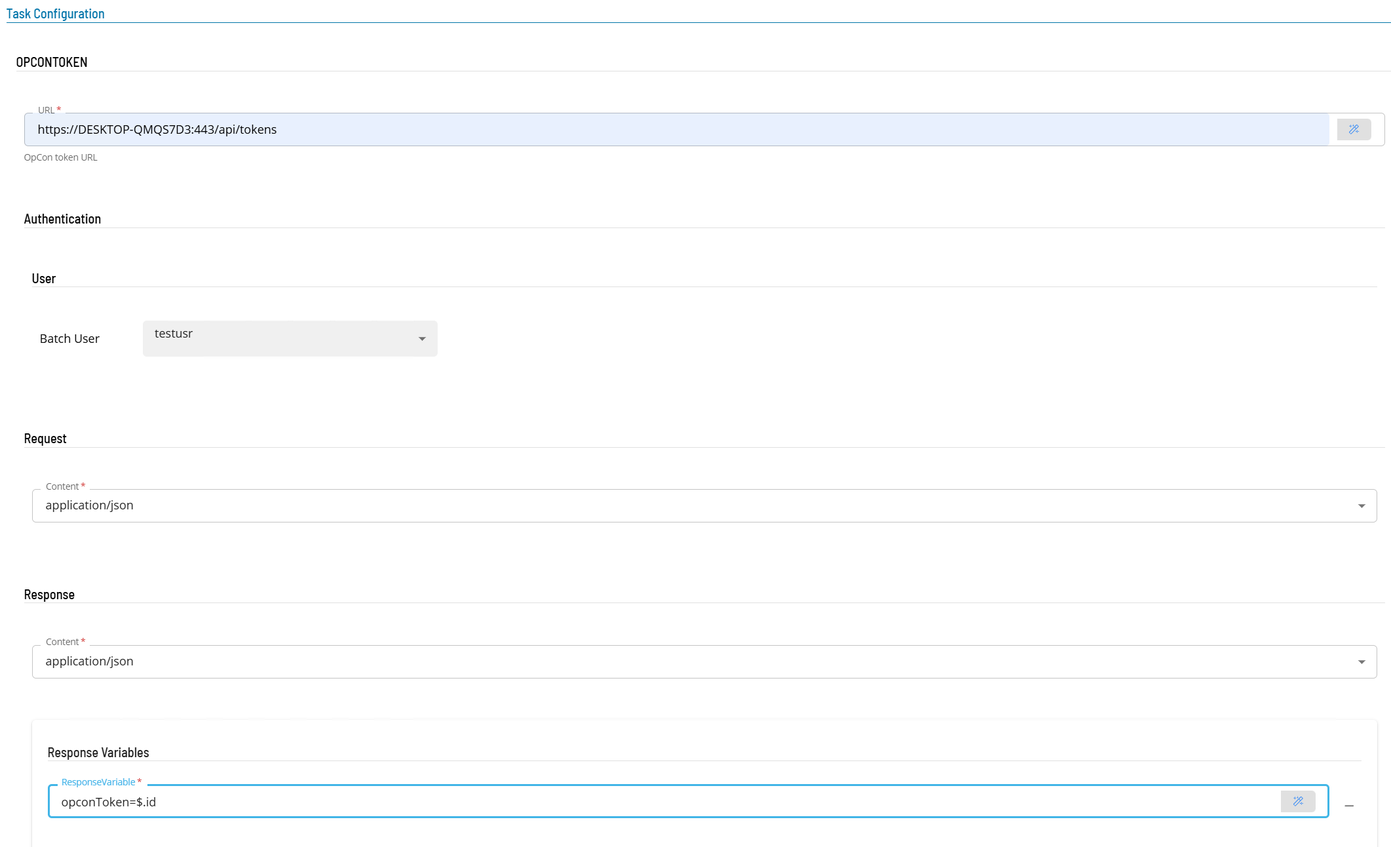
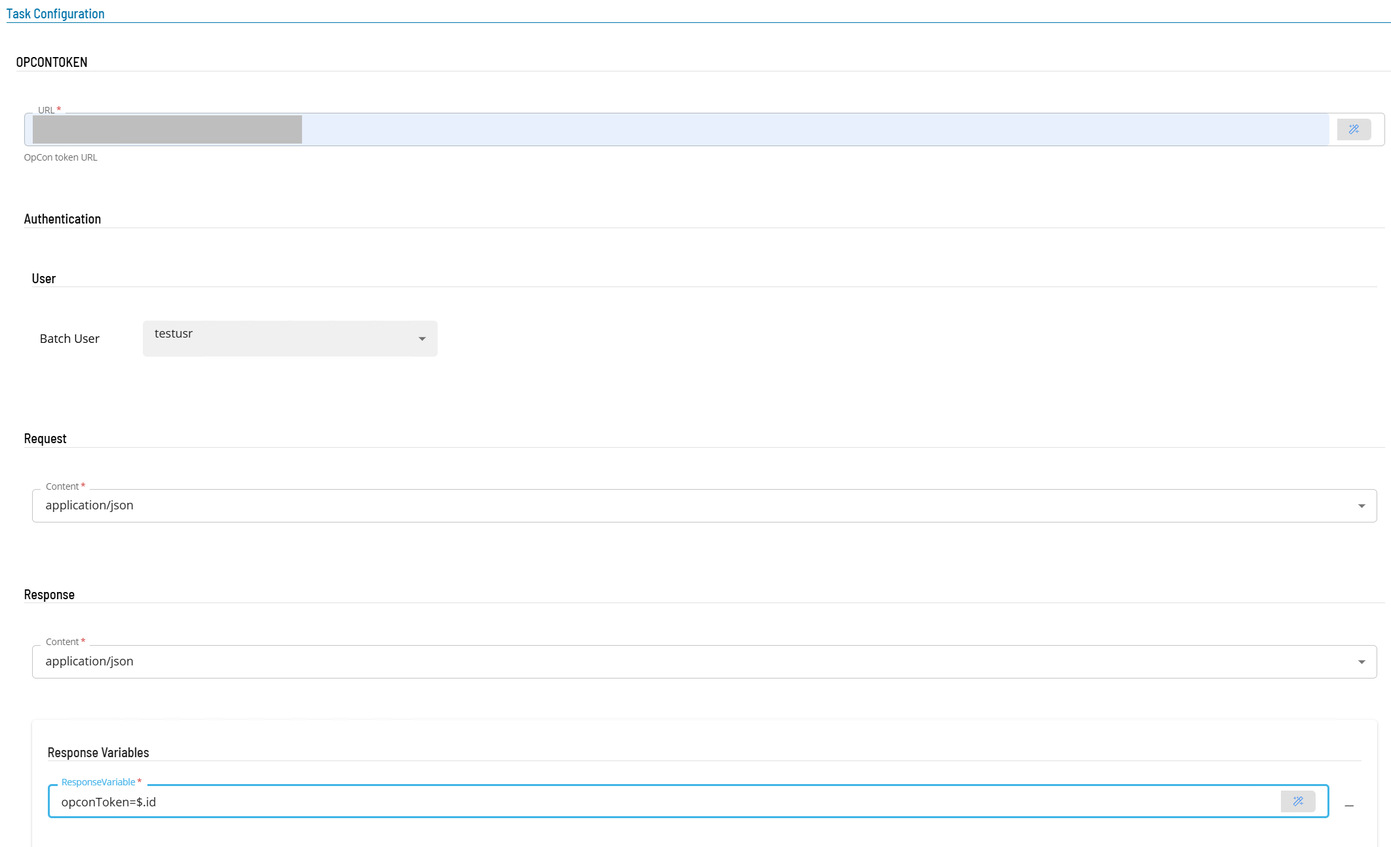
docs: Blob Storage token, screenshots, OAUTH2TOKEN fields and install steps
- AzureWebservices: Blob Storage jobs use GetOAuth2V2Token in the
  dependency note, FAQ and GetOAuth2Token section; Data Factory URL
  value; screen labels; present tense
- Screenshots: environment-specific values covered in 14 images
- Webservices: OAUTH2TOKEN Key label, resource example, content type
  and URL step; Retain Log Files on the agent; GET completion Filename
- Installation: plugins paths, directory choice, service name, and a
  check step for install and upgrade
- Overview: GetOAuth2V2Token, latest version 25.0.4, product names
- Release notes: 25.0.4 moved into the AzureWebservices section,
  unchanged
- Landing page front matter (link menu unchanged)

Changed region(s): [[0.0, 0.1238, 0.2176, 0.1858]]

diff --git a/docs/ACSAzureWebservicesOperation.md b/docs/ACSAzureWebservicesOperation.md
@@ -65,7 +65,7 @@ The ACS AzureWebservices connection supports the following job types:
 | DownloadBlobStorage | Download a file from Azure Blob Storage |
 | UploadBlobStorage | Upload a file to Azure Blob Storage |
 
-**Authentication dependencies:** Define a GetPatToken job before RunDevOpsPipeline. Define a GetOAuth2Token job before GetKeyVaultValue, RunDataFactoryPipeline, DownloadBlobStorage, or UploadBlobStorage. Set job dependencies so the authentication job runs first. The generated tokens are stored as schedule instance properties or OpCon properties and passed automatically to subsequent jobs.
+**Authentication dependencies:** Define a GetPatToken job before RunDevOpsPipeline. Define a GetOAuth2Token job before GetKeyVaultValue or RunDataFactoryPipeline, and a GetOAuth2V2Token job before DownloadBlobStorage or UploadBlobStorage. Set job dependencies so the authentication job runs first. The generated tokens are stored as schedule instance properties or OpCon properties and passed automatically to subsequent jobs.
 
 ### Prerequisite steps for all job definitions
 
@@ -89,7 +89,7 @@ Continue with the job-type-specific steps in the section below.
 
 ### GetOAuth2Token job
 
-The GetOAuth2Token job retrieves an OAuth2 token and stores it as a schedule instance property or OpCon property for use by subsequent jobs that interact with Azure Data Factory, Key Vault, or Blob Storage.
+The GetOAuth2Token job retrieves an OAuth2 token and stores it as a schedule instance property or OpCon property for use by subsequent jobs that interact with Azure Data Factory or Key Vault. For Blob Storage, use the [GetOAuth2V2Token job](#getoauth2v2token-job).
 
 ![Defining a GetOAuth2Token Master Job](../static/img/azure-ws-getaoauth2token-master-job1.png)
 
@@ -98,11 +98,11 @@ After completing the [prerequisite steps](#prerequisite-steps-for-all-job-defini
 1. In the **Integration** section, confirm required fields (shown in red).
 2. In the **Authentication** section:
    - In the **Url** field, enter the token endpoint URL including the tenant ID (for example, `tenant-id/oauth2/token`).
-   - In the **Clientid** field, enter the client ID from the Azure Application registration.
+   - In the **ClientId** field, enter the client ID from the Azure Application registration.
    - In the **Key** field, enter the key from the Azure Application registration.
-   - In the **Resource** field, enter the storage resource (for example, `https://storage-account.blob.core.windows.net`).
+   - In the **Resource** field, enter the resource (for example, `https://vault.azure.net` for Key Vault).
    - Select **client_credentials** from the **Grant Type** list.
-   - In the **OpCon Property** field, enter the property name where the token will be stored. You can use instance properties if the full path is provided.
+   - In the **OpCon Property Name** field, enter the property name where the token is stored. You can use instance properties if the full path is provided.
 3. In the **Request** section, select **application/x-www-form-urlencoded** from the **Content** list.
 
    ![Defining a GetOAuth2Token Master Job](../static/img/azure-ws-getaoauth2token-master-job2.png)
@@ -125,11 +125,11 @@ After completing the [prerequisite steps](#prerequisite-steps-for-all-job-defini
 1. In the **Integration** section, confirm required fields (shown in red).
 2. In the **Authentication** section:
    - In the **Url** field, enter the token endpoint URL including the tenant ID (for example, `tenant-id/oauth2/v2.0/token`).
-   - In the **Clientid** field, enter the client ID from the Azure Application registration.
+   - In the **ClientId** field, enter the client ID from the Azure Application registration.
    - In the **Key** field, enter the key from the Azure Application registration.
    - In the **Scope** field, enter the storage resource (for example, `https://storage.azure.com/.default`).
    - Select **client_credentials** from the **Grant Type** list.
-   - In the **OpCon Property** field, enter the property name where the token will be stored. You can use instance properties if the full path is provided.
+   - In the **OpCon Property Name** field, enter the property name where the token is stored. You can use instance properties if the full path is provided.
 3. In the **Request** section, select **application/x-www-form-urlencoded** from the **Content** list.
 
    ![Defining a GetOAuth2V2Token Master Job](../static/img/azure-ws-getaoauth2token-master-job2.png)
@@ -152,7 +152,7 @@ After completing the [prerequisite steps](#prerequisite-steps-for-all-job-defini
 1. In the **Integration Selection** section, select the ACS AzureWebservices connection.
 2. In the **Authentication** section:
    - Enter the PAT retrieved from Azure DevOps. For instructions on creating a PAT, see the [Microsoft documentation](https://learn.microsoft.com/en-us/azure/devops/organizations/accounts/use-personal-access-tokens-to-authenticate?view=azure-devops&tabs=Windows).
-   - In the **OpCon Property** field, enter the property name where the token will be stored. You can use instance properties if the full path is provided.
+   - In the **OpCon Property Name** field, enter the property name where the token is stored. You can use instance properties if the full path is provided.
 3. (Optional) If not using OpCon properties, in the **Response Variable** section, enter the variable in the format `name=value` where `name` is the schedule instance property name.
 4. Select **Save**. The GetPatToken job is added to the schedule.
 
@@ -177,7 +177,7 @@ After completing the [prerequisite steps](#prerequisite-steps-for-all-job-defini
    - If the type is **key** or **certificate**, select the attribute to return from the **Attribute** field:
      - Key attributes: `Key.kid`, `Key.kty`, `Key.D`, `Key.Dp`, `Key.Dq`, `Key.E`, `Key.K`, `Key.N`, `Key.P`, `Key.Q`, `Key.Qi`, `Key.X`, `Key.Y`
      - Certificate attributes: `Cert.kid`, `Cert.sid`, `Cert.x5t`, `Cert.cer`
-   - In the **OpCon Property** field, enter the property name where the retrieved value will be stored.
+   - In the **OpCon Property Name** field, enter the property name where the retrieved value is stored.
    - In **Header Attributes**, enter `Authorization=name` where `name` is the OpCon property name or response variable name that contains the OAuth2 token.
 3. Select **Save**. The GetKeyVaultValue job is added to the schedule.
 
@@ -221,12 +221,12 @@ After completing the [prerequisite steps](#prerequisite-steps-for-all-job-defini
 
 1. In the **Integration Selection** section, select the ACS AzureWebservices connection.
 2. In the **Job Configuration** section (required fields shown in red):
-   - In the **Data Factory Url** field, enter `management.azure.com/subscription`.
+   - In the **Data Factory Url** field, enter `management.azure.com/subscriptions`.
    - In the **Subscription** field, enter the Azure subscription ID.
    - In the **Resource Group Name** field, enter the resource group where the Data Factory is defined.
    - In the **Data Factory Name** field, enter the Data Factory name.
    - In the **Pipeline Name** field, enter the pipeline name to run.
-   - (Optional) In **Pipeline Runid**, enter a run ID to re-run a specific previous execution.
+   - (Optional) In **Pipeline Runid**, enter a run ID to re-run a specific previous run.
    - (Optional) In the **Run Parameters** section, enter a name and values to pass as run parameters. Select **+Add Item** to add additional parameters.
 3. In the **Request** section:
    - Select **application/json** from the **Content** list.
@@ -289,11 +289,14 @@ After completing the [prerequisite steps](#prerequisite-steps-for-all-job-defini
 **Which authentication job do I need before running a DevOps pipeline?**
 Define a GetPatToken job and set a job dependency from the RunDevOpsPipeline job to the GetPatToken job. The PAT token must be available as a schedule instance property or OpCon property before RunDevOpsPipeline runs.
 
-**Which authentication job do I need before running a Data Factory pipeline, accessing Key Vault, or using Blob Storage?**
+**Which authentication job do I need before running a Data Factory pipeline or accessing Key Vault?**
 Define a GetOAuth2Token job and set a job dependency from the downstream job to the GetOAuth2Token job. The OAuth2 token must be available before the subsequent job runs.
 
+**Which authentication job do I need before using Blob Storage?**
+Define a GetOAuth2V2Token job and set a job dependency from the DownloadBlobStorage or UploadBlobStorage job to it.
+
 **How do I store a token for use across multiple jobs?**
-Enter a property name in the **OpCon Property** field of the GetOAuth2Token or GetPatToken job to store the token as an OpCon property accessible across schedules. Alternatively, use **Response Variable** to store it as a schedule instance property scoped to the current schedule run.
+Enter a property name in the **OpCon Property Name** field of the GetOAuth2Token or GetPatToken job to store the token as an OpCon property accessible across schedules. Alternatively, use **Response Variable** to store it as a schedule instance property scoped to the current schedule run.
 
 **What value do I enter in the Azure Url field for a RunDevOpsPipeline job?**
 Enter `dev.azure.com` in the **Azure Url** field.

diff --git a/docs/ACSWebservicesOperation.md b/docs/ACSWebservicesOperation.md
@@ -35,7 +35,7 @@ To define an ACS Webservices batch user, complete the following steps:
 3. From the **Security** menu, select **Batch Users**.
 4. Select **+Add**.
 5. Select **ACS Webservices** from the **Select the target OS** list.
-6. In the **Identifier** field, enter the user name that will be used to create the token.
+6. In the **Identifier** field, enter the user name used to create the token.
 7. In the **Password** and **Confirm** fields, enter the password of the defined API user.
 8. Select **Save**. The batch user is created and available for selection in BASICTOKEN and OPCONTOKEN job definitions.
 
@@ -60,6 +60,7 @@ To define the ACS Webservices connection, complete the following steps:
    - In the **OpCon URL** field, enter the full URL for the associated OpCon REST API server.
    - In the **OpCon Token** field, enter a valid OpCon application token for authenticating internal OpCon REST API requests.
    - In the **Proxy Url** field, enter the full URL of the proxy server if required.
+   - In the **Retain Log Files** field, enter the number of days to keep log files (for example, `30`).
 6. Select **Save**.
 7. Select **Communications Settings**, set **Requires XML Escape Sequences:User-Defined** to **True**, then select **Save**.
 8. Select the **Change Communication Status** button and select **Enable Full Comm.**
@@ -113,7 +114,7 @@ After completing the [prerequisite steps](#prerequisite-steps-for-all-job-defini
 
 1. In the **Integration Selection** section, select the ACS Webservices connection.
 2. In the **Authentication** section, select a batch user from the list.
-3. In the **Response Variable** section, enter the variable that will contain the token. Use the format `name=value` where `name` is the schedule instance property name (the value is ignored).
+3. In the **Response Variable** section, enter the variable that contains the token. Use the format `name=value` where `name` is the schedule instance property name (the value is ignored).
 4. Select **Save**. The BASICTOKEN job is added to the schedule.
 
 ---
@@ -146,20 +147,21 @@ The OAUTH2TOKEN job retrieves an OAuth2 token and sets it as a schedule instance
 
 After completing the [prerequisite steps](#prerequisite-steps-for-all-job-definitions) and selecting **OAUTH2TOKEN** as the task type:
 
-1. In the **Integration Selection** section, select the ACS Webservices connection. In the **URL** field, enter the full endpoint address using global properties (for example, `https://login.microsoftonline.com/[[tenantid]]/oauth2/token`).
-2. In the **Authentication** section:
+1. In the **Integration Selection** section, select the ACS Webservices connection.
+2. In the **URL** field at the top of the task configuration, enter the full endpoint address using global properties (for example, `https://login.microsoftonline.com/[[tenantid]]/oauth2/token`).
+3. In the **Authentication** section:
    - In the **ClientId** field, enter the client ID (use an encrypted global property to protect this value).
-   - In the **KeyId** field, enter the key (use an encrypted global property to protect this value).
-   - In the **Resource** field, enter the authentication resource (for example, `https://[[dataserver]].blob.storage.net` for Azure Storage).
+   - In the **Key** field, enter the key (use an encrypted global property to protect this value).
+   - In the **Resource** field, enter the authentication resource (for example, `https://[[dataserver]].blob.core.windows.net` for Azure Storage).
    - Select **client_credentials** from the **Grant Type** list.
 
    ![Defining an OAUTH2TOKEN Master Job](../static/img/ws-oauth2token-master-job2.png)
 
-3. In the **Request** section, select **application/x-wwww-form-urlencoded** from the **Content** list.
-4. In the **Response** section:
+4. In the **Request** section, select **application/x-www-form-urlencoded** from the **Content** list.
+5. In the **Response** section:
    - Select **application/json** from the **Content** list.
    - In **Response Variables**, enter a variable in the format `variable-name=jsonpath` (for example, `oauthToken=$.id`). The JPath value is ignored — the connector uses `access_token` by default.
-5. Select **Save**. The OAUTH2TOKEN job is added to the schedule.
+6. Select **Save**. The OAUTH2TOKEN job is added to the schedule.
 
 ---
 
@@ -188,6 +190,7 @@ After completing the [prerequisite steps](#prerequisite-steps-for-all-job-defini
 4. In the **Response** section, select **application/json** from the **Content** list.
 5. (Optional) In the **Completion** section, configure how the job determines success or failure:
    - Select **Poll** to check the result repeatedly rather than once.
+   - (Optional) In the **Filename** field, enter the name of a file to write the returned data into.
    - In the **Attribute** field, enter the JPath expression for the attribute to check (for example, `$.result.message`).
    - In **Good Result**, enter values that indicate success, separated by `/` (for example, `Success/Complete`).
    - In **Bad Result**, enter values that indicate failure, separated by `/` (for example, `Error/Failed`).
@@ -336,7 +339,7 @@ The connection must already be defined as an agent in Solution Manager before yo
 
 **ACS Webservices** — An OpCon connector that enables jobs to make HTTP requests to remote REST APIs from within an OpCon schedule.
 
-**Batch user** — An OpCon user account that provides authentication credentials for job execution. The BASICTOKEN and OPCONTOKEN job types use batch users to generate encoded authentication strings.
+**Batch user** — An OpCon user account that provides authentication credentials for jobs. The BASICTOKEN and OPCONTOKEN job types use batch users to generate encoded authentication strings.
 
 **BASICTOKEN** — A job type that generates a base64 encoded authentication token from an ACS Webservices batch user and stores it as a schedule instance property.
 

diff --git a/docs/overview.md b/docs/overview.md
@@ -1,7 +1,7 @@
 ---
 title: WebServices ACS overview
 sidebar_label: 'Overview'
-description: "Overview of the ACS WebServices and ACS AzureWebservices connectors, including architecture, job types, and how data is passed between jobs."
+description: "Overview of the ACS Webservices and ACS AzureWebservices connectors, including architecture, job types, and how data is passed between jobs."
 tags:
   - Conceptual
   - Automation Engineer
@@ -10,13 +10,13 @@ tags:
 
 # WebServices ACS overview
 
-ACS WebServices provides direct REST API access to applications without requiring additional component installation. It is part of the ACS (Agentless Connector System) suite of products.
+ACS Webservices provides direct REST API access to applications without requiring additional component installation. It is part of the ACS (Agentless Connector System) suite of products.
 
 ## What is it?
 
-ACS WebServices and ACS AzureWebservices are OpCon connectors that allow you to automate REST API interactions and Azure cloud operations directly from OpCon schedules — without installing an agent on the target system.
+ACS Webservices and ACS AzureWebservices are OpCon connectors that allow you to automate REST API interactions and Azure cloud operations directly from OpCon schedules — without installing an agent on the target system.
 
-- Use ACS WebServices when you need to call generic REST API endpoints for authentication, data retrieval, or submission using GET, POST, PUT, PATCH, or DELETE operations
+- Use ACS Webservices when you need to call generic REST API endpoints for authentication, data retrieval, or submission using GET, POST, PUT, PATCH, or DELETE operations
 - Use ACS AzureWebservices when you need to integrate with Microsoft Azure services such as Azure DevOps, Azure Data Factory, Azure Blob Storage, or Azure Key Vault
 - Use either connector when your target system exposes a REST API but does not support a traditional OpCon agent installation
 
@@ -32,7 +32,7 @@ Agent and job definitions for the ACS environment can only be created or updated
 
 ## Passing data between jobs
 
-The ACS WebServices implementation does not include steps as in the previous WebServices Connector. Each function runs as a separate job. Information is passed between jobs using ACS scoped properties, which are saved as schedule instance properties of the associated schedule instance in the daily tables.
+The ACS Webservices implementation does not include steps as in the previous WebServices Connector. Each function runs as a separate job. Information is passed between jobs using ACS scoped properties, which are saved as schedule instance properties of the associated schedule instance in the daily tables.
 
 To save data, use the **Response Variables** section to define the variable name and its associated value. The variable name can then be used in the URLs and message bodies of subsequent jobs.
 
@@ -53,6 +53,7 @@ ACS AzureWebservices provides defined integrations with the Microsoft Azure envi
 | Job type | Description |
 |---|---|
 | GetOAuth2Token | Retrieves an OAuth2 token for authenticating subsequent Azure jobs |
+| GetOAuth2V2Token | Retrieves an OAuth2 V2.0 token for Azure Blob Storage jobs |
 | GetPatToken | Creates an Azure DevOps authentication token using a Personal Access Token (PAT) |
 | GetKeyVaultValue | Retrieves secrets, keys, or certificates from Azure Key Vault |
 | RunDevOpsPipeline | Starts an Azure DevOps pipeline and monitors it for completion |
@@ -79,24 +80,24 @@ ACS Webservices provides generic implementations for authentication and standard
 
 | Connector | Latest version |
 |---|---|
-| ACS WebServices | 25.0.2 |
-| ACS AzureWebServices | 25.0.3 |
+| ACS Webservices | 25.0.2 |
+| ACS AzureWebservices | 25.0.4 |
 
 ## FAQs
 
 **Do I need to install an agent on the target system?**
-No. ACS WebServices and ACS AzureWebservices communicate directly with REST API endpoints. No agent installation is required on the target system.
+No. ACS Webservices and ACS AzureWebservices communicate directly with REST API endpoints. No agent installation is required on the target system.
 
 **Where are the connector files installed?**
 On-premises: copy the connector directory to the `\SAM\plugins` directory. Cloud: copy it to the `\Relay\plugins` directory.
 
-**Can I use both ACS WebServices and ACS AzureWebservices in the same schedule?**
+**Can I use both ACS Webservices and ACS AzureWebservices in the same schedule?**
 Yes. Each connector is configured as a separate agent definition in Solution Manager. You can include jobs from both connectors in the same schedule and define dependencies between them.
 
 **How do I pass a token from an authentication job to a subsequent job?**
 Define a **Response Variable** on the authentication job to store the token as a schedule instance property. Reference that property name in the **Header Attributes** field of subsequent jobs.
 
-**Can I mix ACS WebServices jobs with standard OpCon jobs in the same schedule?**
+**Can I mix ACS Webservices jobs with standard OpCon jobs in the same schedule?**
 Yes. ACS jobs run alongside standard OpCon jobs in a schedule. You can define job dependencies between ACS jobs and standard jobs using the standard OpCon dependency configuration.
 
 ## Glossary

diff --git a/docs/installation.md b/docs/installation.md
@@ -33,8 +33,10 @@ To install the ACS connector, complete the following steps:
 
    | Deployment type | Steps |
    |---|---|
-   | On-prem | Copy the `ACSAzureWebservices\ACSWebservices` directory to the `\\SAM\\plugins` directory. Restart the **SMA OpCon Services Manager** and **SMA OpCon RestAPI** service. |
-   | Cloud | Copy the `ACSAzureWebservices\ACSWebservices` directory to the `\\Relay\\plugins` directory. Restart the **SMA OpCon Relay** service. |
+   | On-prem | Copy the `ACSWebservices` or `ACSAzureWebservices` directory to the `\SAM\plugins` directory. Restart the **SMA OpCon Service Manager** and **SMA OpCon RestAPI** service. |
+   | Cloud | Copy the `ACSWebservices` or `ACSAzureWebservices` directory to the `\Relay\plugins` directory. Restart the **SMA OpCon Relay** service. |
+
+5. Confirm that **ACS Webservices** or **ACS AzureWebservices** appears in the **Type** list when you add an agent in Solution Manager.
 
 The connector is installed and available for configuration in Solution Manager.
 
@@ -50,8 +52,10 @@ To upgrade the ACS connector, complete the following steps:
 
    | Deployment type | Steps |
    |---|---|
-   | On-prem | Stop the **SMA OpCon Services Manager** and **SMA OpCon RestAPI** service. Copy the `ACSAzureWebservices\ACSWebservices` directory to the `\\SAM\\plugins` directory. Restart the **SMA OpCon Services Manager** and **SMA OpCon RestAPI** service. |
-   | Cloud | Copy the `ACSAzureWebservices\ACSWebservices` directory to the `\\Relay\\plugins` directory. Restart the **SMA OpCon Relay** service. |
+   | On-prem | Stop the **SMA OpCon Service Manager** and **SMA OpCon RestAPI** service. Copy the `ACSWebservices` or `ACSAzureWebservices` directory to the `\SAM\plugins` directory. Restart the **SMA OpCon Service Manager** and **SMA OpCon RestAPI** service. |
+   | Cloud | Copy the `ACSWebservices` or `ACSAzureWebservices` directory to the `\Relay\plugins` directory. Restart the **SMA OpCon Relay** service. |
+
+4. Confirm that **ACS Webservices** or **ACS AzureWebservices** still appears in the **Type** list when you add an agent in Solution Manager.
 
 The connector is upgraded to the new version.
 
@@ -61,10 +65,10 @@ The connector is upgraded to the new version.
 The package is available on the SMA FTP Site under `/OpCon Releases/Integrations/Webservices/` or `/OpCon Releases/Integrations/AzureWebservices/` depending on which connector you are installing.
 
 **Which plugins directory do I copy files to?**
-On-prem deployments use the `\\SAM\\plugins` directory. Cloud deployments use the `\\Relay\\plugins` directory.
+On-prem deployments use the `\SAM\plugins` directory. Cloud deployments use the `\Relay\plugins` directory.
 
 **Do I need to stop services before upgrading?**
-For on-prem deployments, stop the **SMA OpCon Services Manager** and **SMA OpCon RestAPI** service before copying files. For cloud deployments, you can copy the files and then restart the **SMA OpCon Relay** service without a prior stop step.
+For on-prem deployments, stop the **SMA OpCon Service Manager** and **SMA OpCon RestAPI** service before copying files. For cloud deployments, you can copy the files and then restart the **SMA OpCon Relay** service without a prior stop step.
 
 ## Glossary
 
@@ -74,6 +78,6 @@ For on-prem deployments, stop the **SMA OpCon Services Manager** and **SMA OpCon
 
 **Plugin** — The deployed connector files placed in the `plugins` directory that OpCon loads at service startup to make a connector available.
 
-**SMA OpCon Services Manager** — The Windows service that manages OpCon components on on-prem installations.
+**SMA OpCon Service Manager** — The Windows service that manages OpCon components on on-prem installations.
 
-**SMA OpCon Relay** — The Windows service used in cloud-hosted OpCon deployments in place of the on-prem Services Manager.
+**SMA OpCon Relay** — The Windows service used in cloud-hosted OpCon deployments in place of the on-prem SMA OpCon Service Manager.

diff --git a/docs/release-notes.md b/docs/release-notes.md
@@ -1,7 +1,7 @@
 ---
 sidebar_label: 'Release notes'
 title: WebServices ACS release notes
-description: "Version history and change details for the ACS WebServices and ACS AzureWebservices connectors, including new features and bug fixes."
+description: "Version history and change details for the ACS Webservices and ACS AzureWebservices connectors, including new features and bug fixes."
 tags:
   - Reference
   - Automation Engineer
@@ -10,16 +10,6 @@ tags:
 ---
 
 # WebServices ACS release notes
-
-## ACS AzureWebservices
-
-### 25.0.4
-
-2026
-
-#### Bug fixes
-
-- **Fixed Azure Storage token generation** Resolved issue where token generation for Azure Storage resulted in key errors by implementing OAuth2 V2.0 token generation using new GetOAuth2V2Token job.
 
 ## ACS Webservices
 
@@ -38,6 +28,14 @@ Initial release.
 ---
 
 ## ACS AzureWebservices
+
+### 25.0.4
+
+2026
+
+#### Bug fixes
+
+- **Fixed Azure Storage token generation** Resolved issue where token generation for Azure Storage resulted in key errors by implementing OAuth2 V2.0 token generation using new GetOAuth2V2Token job.
 
 ### 25.0.3
 

diff --git a/docs/index.md b/docs/index.md
@@ -1,4 +1,10 @@
 ---
+title: WebServices ACS
+description: "Documentation for the ACS Webservices and ACS AzureWebservices connectors, which let OpCon call REST APIs and Azure services without an agent on the target system."
+tags:
+  - Overview
+  - Automation Engineer
+  - Agents
 slug: '/'
 sidebar_label: 'WebServices ACS'
 hide_table_of_contents: true
